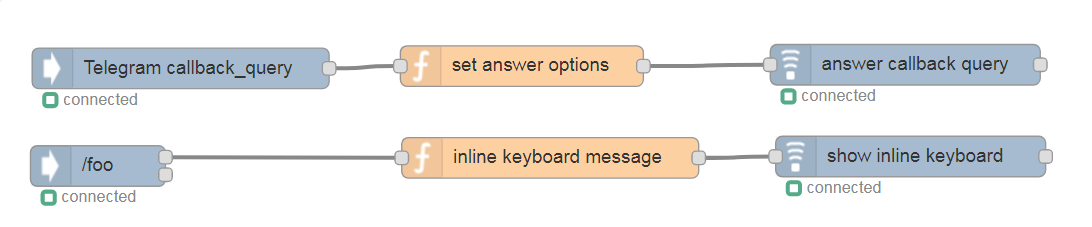
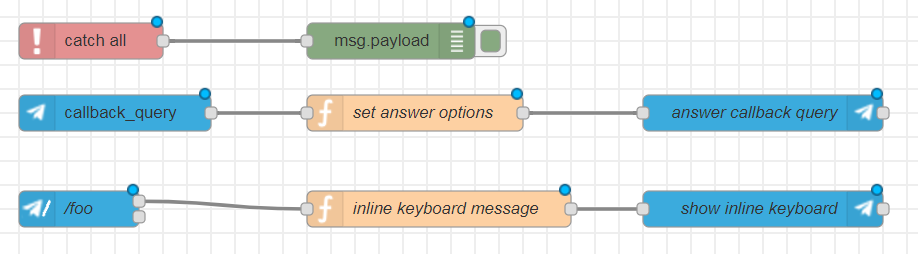
Updated examples and screenshots

diff --git a/README.md b/README.md
@@ -297,6 +297,7 @@ You can reply on that message or log it to a file to see who wanted to access yo
 
 The message needs to be formatted before the log to file node can be triggered. A simple function could look like this:
 ![Alt text](images/TelegramBotUnauthorizedAccess2.png?raw=true "Create logging string with full information.")
+[source flow](examples/unauthorizedaccess.json)
 
 
 ## Implementing a simple bot
